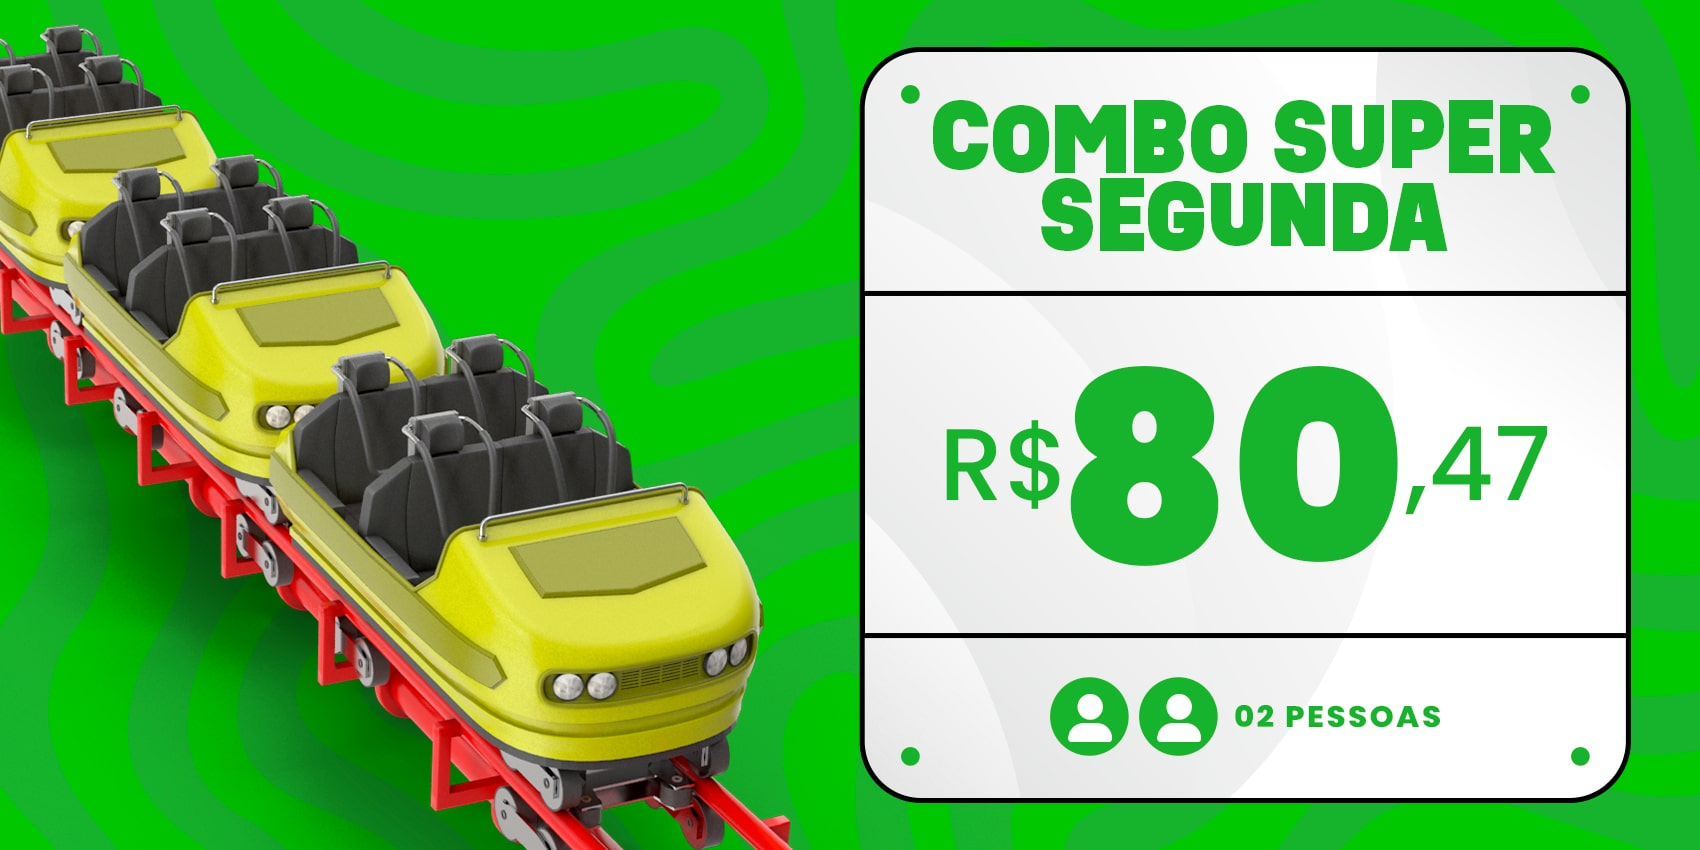
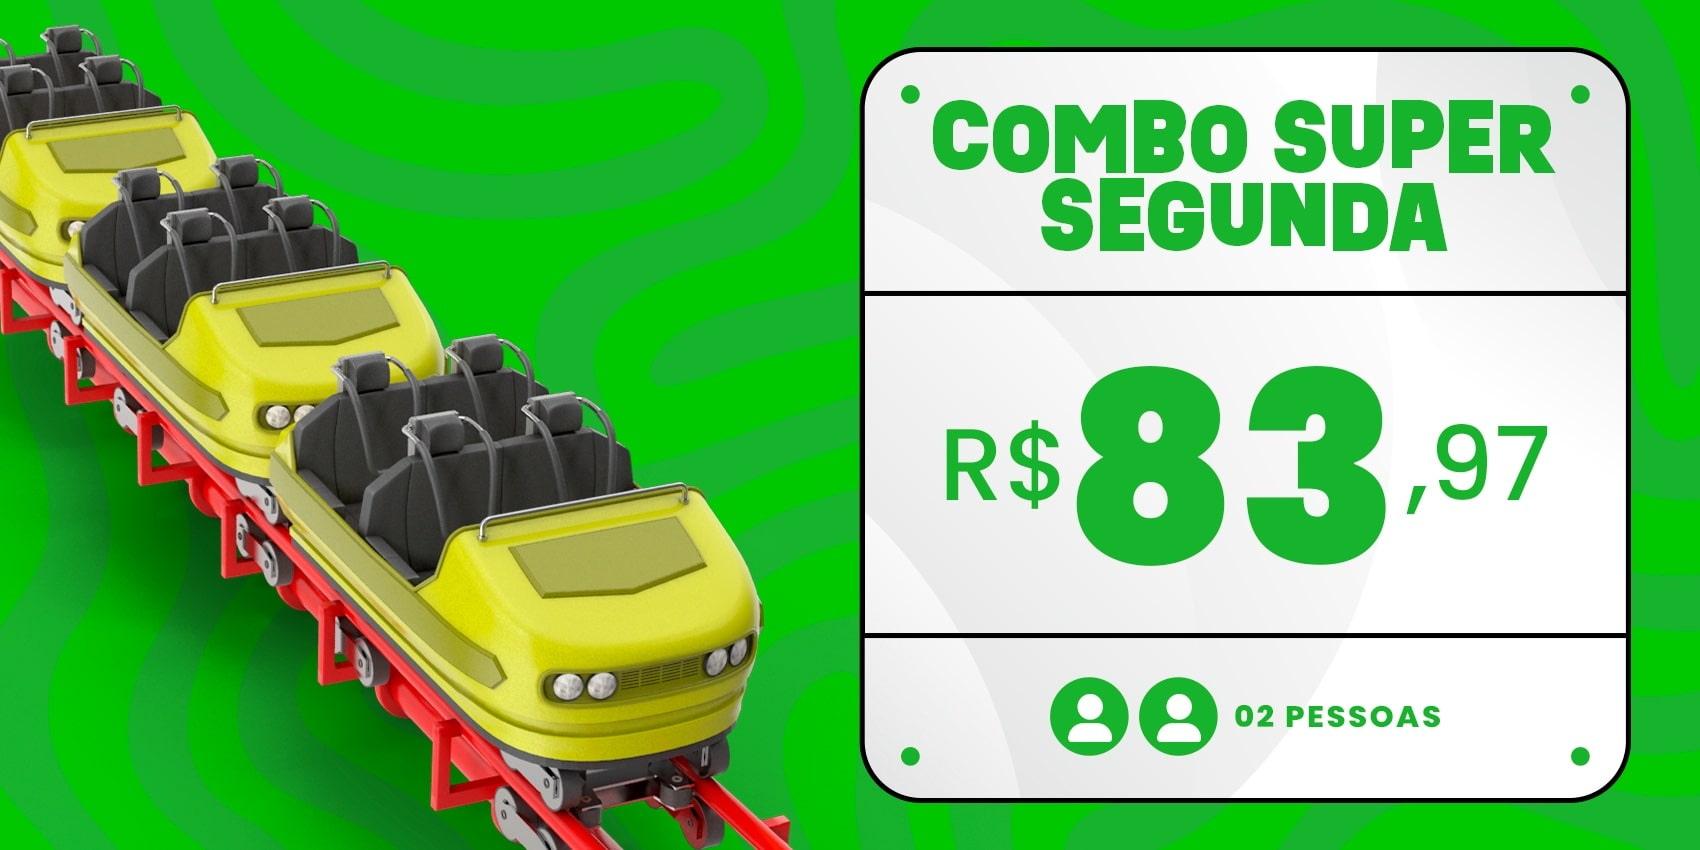
Ajuste preços ferias

Changed region(s): [[0.6235, 0.4282, 0.8729, 0.6729], [0.7482, 0.6424, 0.8106, 0.6729], [0.7794, 0.4282, 0.8106, 0.4588]]

diff --git a/src/pages/passaportes/index.tsx b/src/pages/passaportes/index.tsx
@@ -55,7 +55,7 @@ export default function PassaportsPage() {
                 <Ticket
                   id={15}
                   name="Passaporte Super Segunda"
-                  price={4597}
+                  price={4797}
                   banner={PassaporteSuperSegunda}
                   quantity={1}
                   reference={4597}
@@ -65,9 +65,9 @@ export default function PassaportsPage() {
                 <Ticket
                   id={19}
                   isPassport
-                  price={8047}
+                  price={8397}
                   quantity={2}
-                  reference={4597}
+                  reference={4797}
                   name="Combo Super Segunda"
                   banner={ComboSuperSegunda}
                 />

diff --git a/src/components/organisms/Tickets.tsx b/src/components/organisms/Tickets.tsx
@@ -43,9 +43,9 @@ export default function Tickets() {
               id={15}
               isPassport
               quantity={1}
-              price={4597}
+              price={4797}
               isSuperSegunda
-              reference={4597}
+              reference={4797}
               name="Passaporte Super Segunda"
               banner={PassaporteSuperSegunda}
             />
@@ -55,9 +55,9 @@ export default function Tickets() {
             <Ticket
               id={19}
               isPassport
-              price={8047}
+              price={8397}
               quantity={2}
-              reference={4597}
+              reference={4797}
               name="Combo Super Segunda"
               banner={ComboSuperSegunda}
             />
